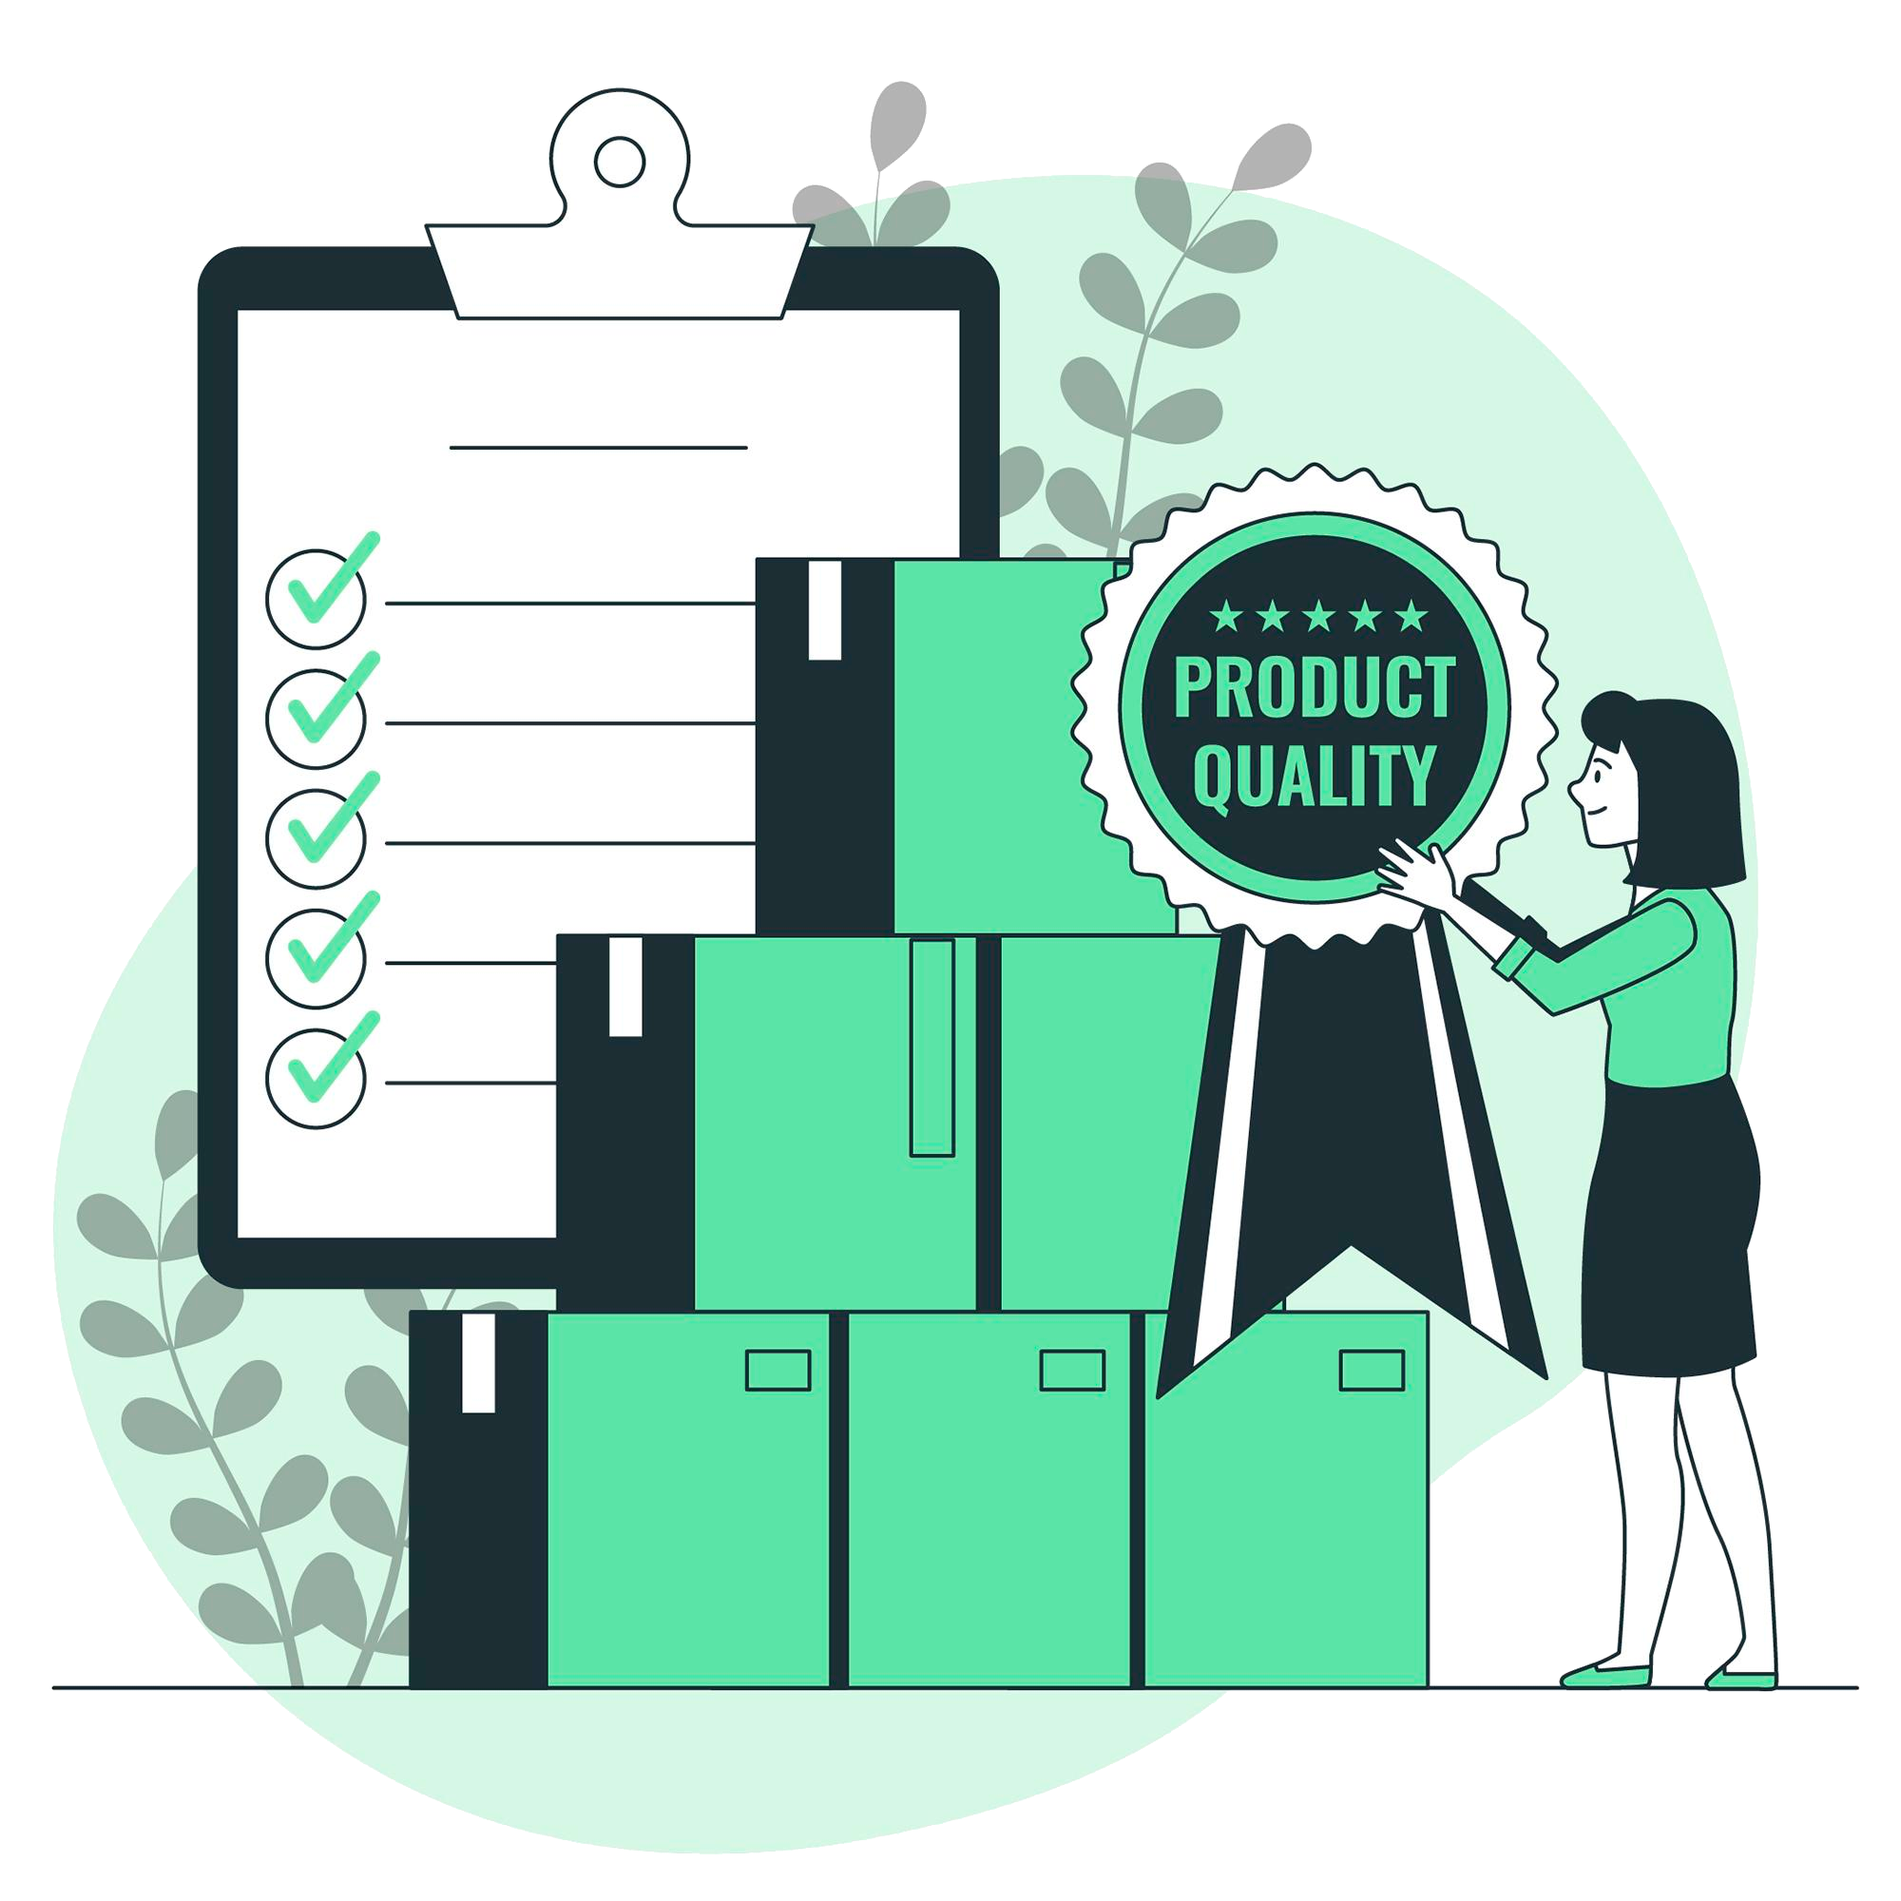
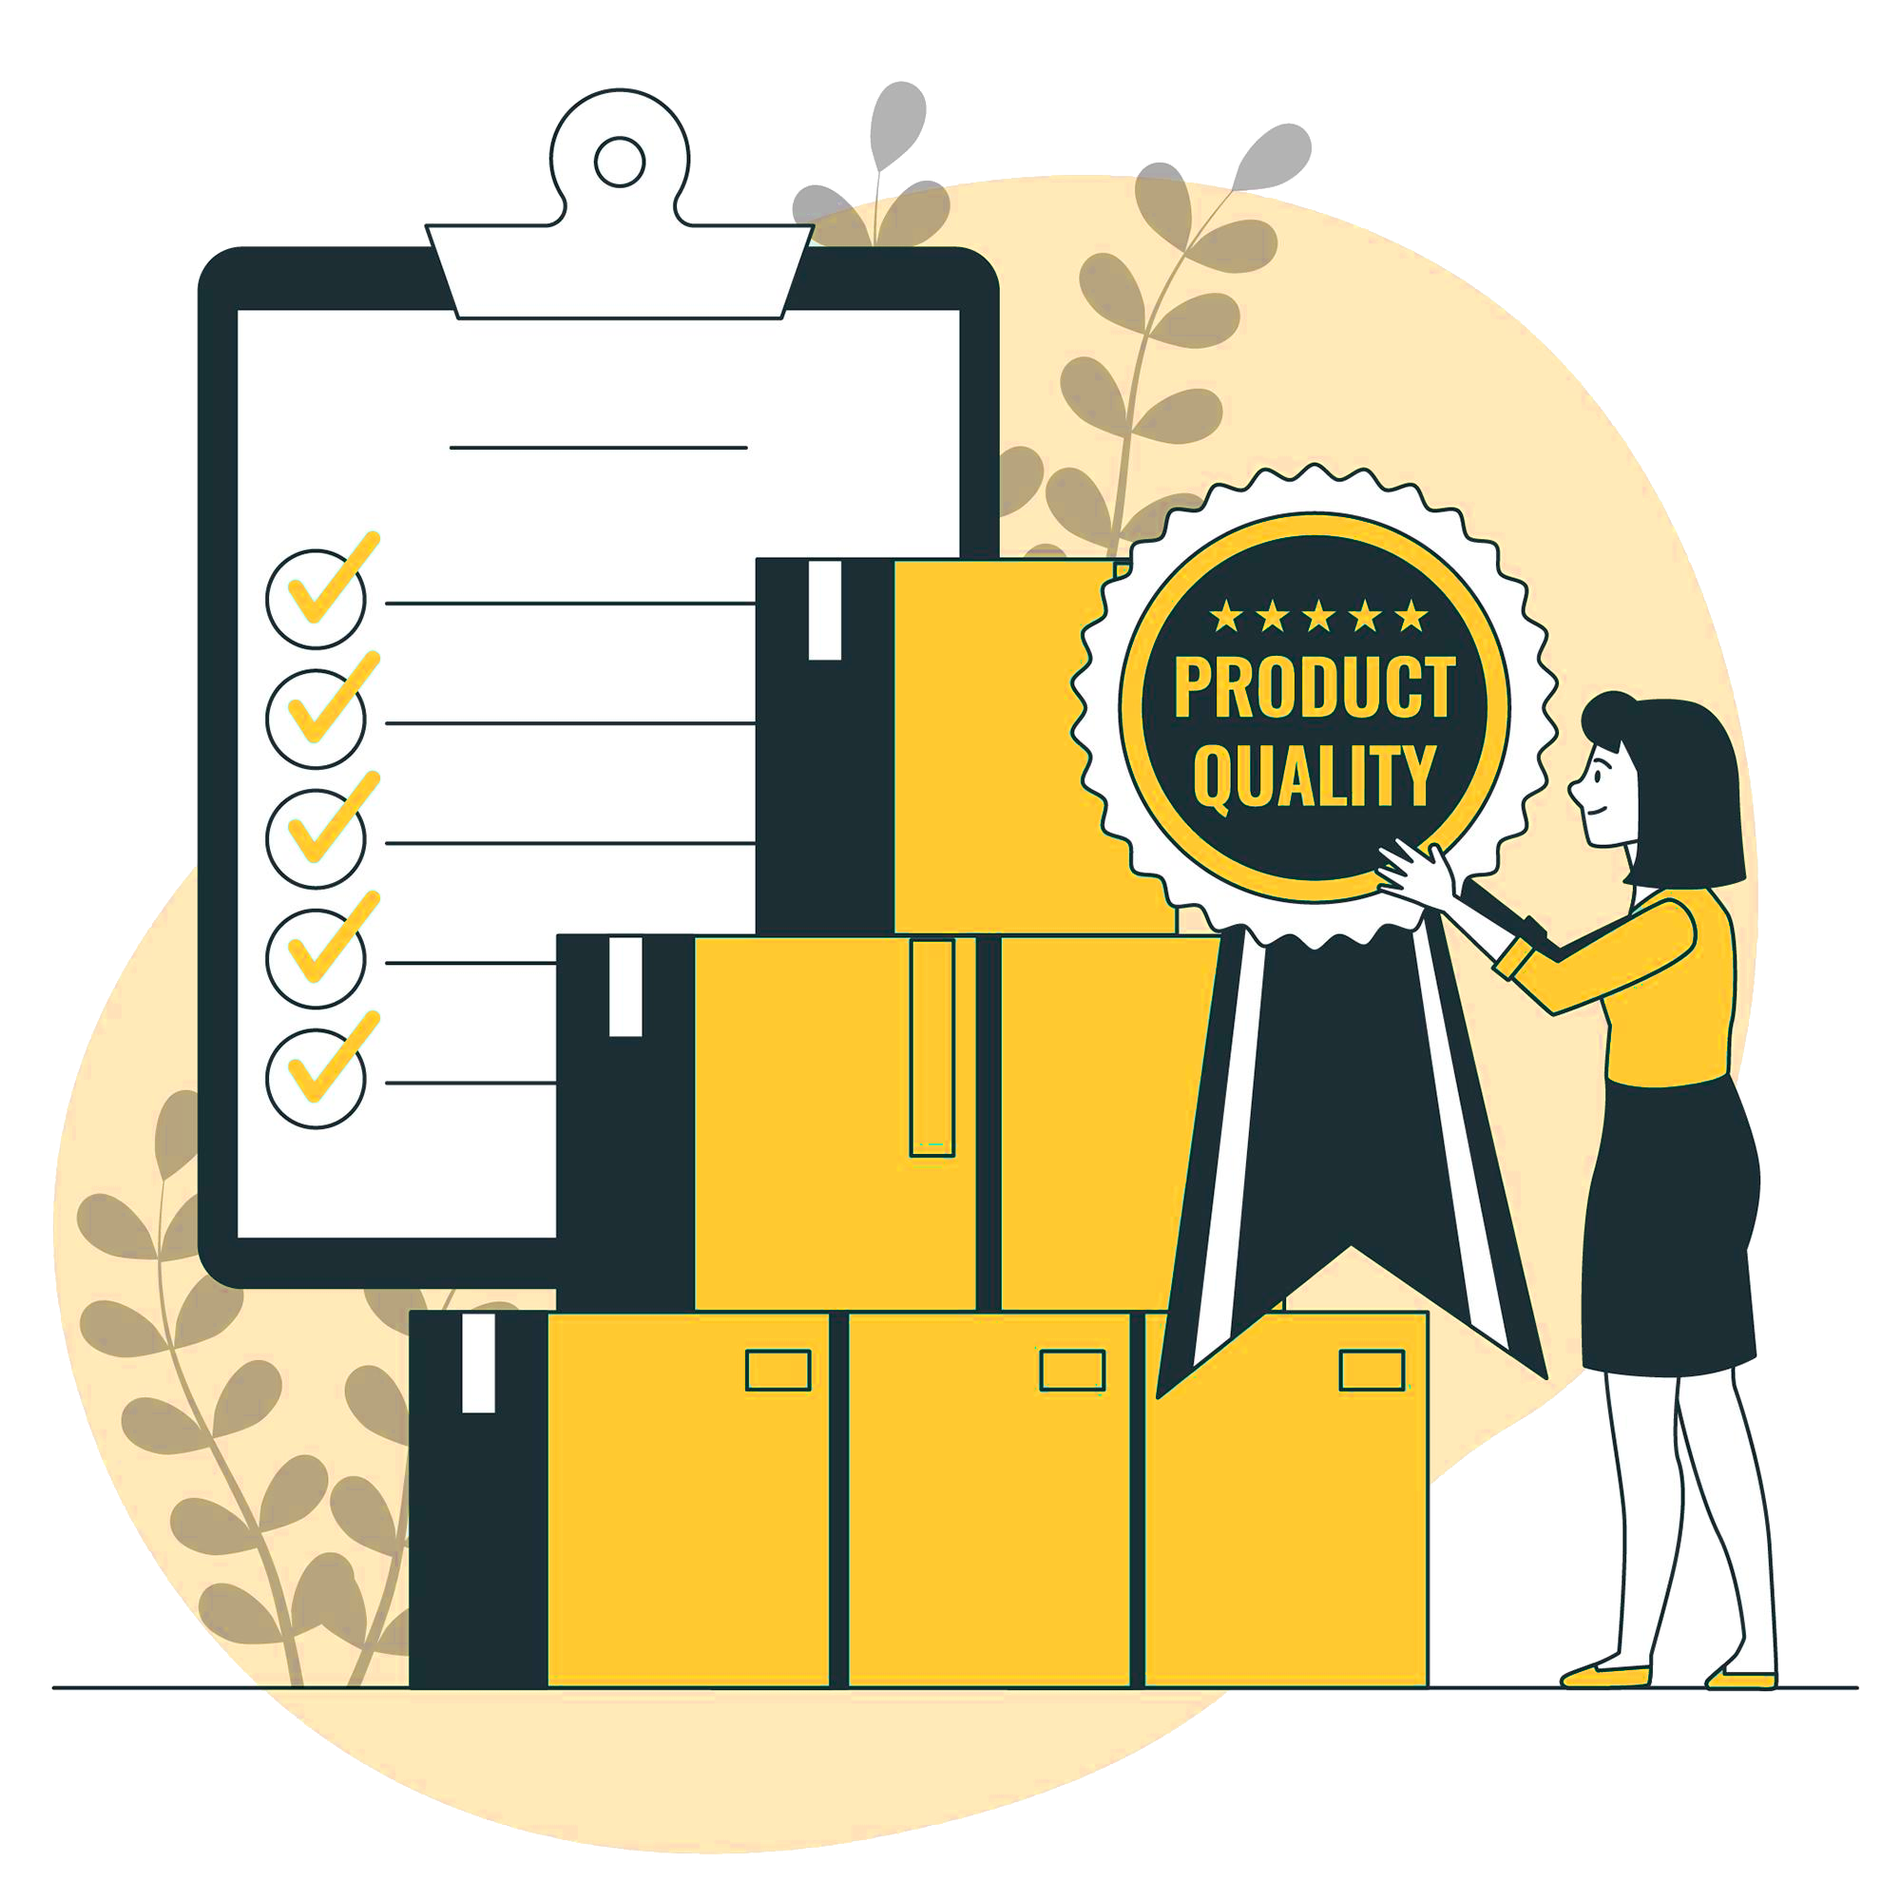
Poprawki wyglądowe + grafiki

diff --git a/src/components/homePage/timeline.vue b/src/components/homePage/timeline.vue
@@ -26,7 +26,7 @@ export default {
                     image: require('@/assets/homePage/timeline/inwentaryzacja.png'),
                     title: "Inwentaryzuj",
                     alt: "Proces inwentaryzacji",
-                    description: "Lorem ipsum dolor sit amet, no nam oblique veritus. Commune scaevola imperdiet nec ut, sedeuismod convenire principes at. Est et nobis iisque percipit, an vim zril disputando voluptatibus, vix an salutandi sententiae."
+                    description: "Inwentaryzacja to kluczowy proces monitorowania stanów magazynowych i kontroli przepływu towarów. Dzięki nowoczesnym technologiom, takim jak kody kreskowe, jest szybka, dokładna i efektywna."
                 },
                 {
                     id: 2,
@@ -34,7 +34,7 @@ export default {
                     image: require('@/assets/homePage/timeline/sprawdzanie.png'),
                     title: "Sprawdzaj",
                     alt: "Sprawdzanie",
-                    description: "Lorem ipsum dolor sit amet, no nam oblique veritus. Commune scaevola imperdiet nec ut, sedeuismod convenire principes at. Est et nobis iisque percipit, an vim zril disputando voluptatibus, vix an salutandi sententiae."
+                    description: "Dzięki kodom kreskowym można szybko i dokładnie sprawdzić przynależność przedmiotu do konkretnej lokalizacji, użytkownika lub działu. System umożliwia natychmiastowy dostęp do szczegółowych informacji, co ułatwia zarządzanie zasobami i eliminuje pomyłki."
                 },
                 {
                     id: 3,
@@ -42,7 +42,7 @@ export default {
                     image: require('@/assets/homePage/timeline/dokumentacja.png'),
                     title: "Dokumentuj",
                     alt: "Tworzenie dokumentacji",
-                    description: "Lorem ipsum dolor sit amet, no nam oblique veritus. Commune scaevola imperdiet nec ut, sedeuismod convenire principes at. Est et nobis iisque percipit, an vim zril disputando voluptatibus, vix an salutandi sententiae."
+                    description: "Dokumentowanie inwentaryzacji polega na szczegółowym zapisie wszystkich zasobów posiadanych przez firmę lub organizację, w celu określenia ich ilości, stanu oraz wartości. Dzięki zastosowaniu oprogramowania, proces ten staje się szybszy, bardziej precyzyjny i mniej podatny na błędy, co umożliwia efektywne zarządzanie zasobami."
                 },
             ]
         };
@@ -57,7 +57,7 @@ export default {
 
 .timeline__container {
     max-width: 80%;
-    background-color: var(--primary-yellow);
+    background-color: var(--primary-blue);
     display: flex;
     flex-direction: row;
     align-items: center;
@@ -67,7 +67,7 @@ export default {
 }
 
 .timeline-text-box {
-    color: var(--primary-blue);
+    color: var(--primary-yellow);
     width: 70%;
     padding: 10px;
 }

diff --git a/src/components/warehousePage/warehouseForm.vue b/src/components/warehousePage/warehouseForm.vue
@@ -13,9 +13,9 @@ const { handleSubmit } = useForm({
             return 'Nazwa przedmiotu nie może być krótsza od 3 znaków i dłuższa od 100 znaków'
         },
         opis() {
-            if (opisPrzedmiotu.value?.length >= 10 && opisPrzedmiotu.value?.length <= 250) return true
+            if (opisPrzedmiotu.value?.length >= 10 && opisPrzedmiotu.value?.length <= 500) return true
 
-            return 'Opis przedmiotu nie może być krótszy od 10 znaków i dłuższy od 250 znaków'
+            return 'Opis przedmiotu nie może być krótszy od 10 znaków i dłuższy od 500 znaków'
         },
         fprzedmiotu() {
             if (firmaPrzedmiotu.value?.length >= 2 && firmaPrzedmiotu.value?.length <= 50) return true
@@ -179,7 +179,7 @@ const submit = handleSubmit(() => {
                     <v-text-field v-model="firmaPrzedmiotu" :counter="50"
                         :error-messages="fprzedmiotu.errorMessage.value" label="Firma przedmiotu"></v-text-field>
 
-                    <v-textarea v-model="opisPrzedmiotu" :counter="250" :error-messages="opis.errorMessage.value"
+                    <v-textarea v-model="opisPrzedmiotu" :counter="500" :error-messages="opis.errorMessage.value"
                         label="Opis przedmiotu"></v-textarea>
 
                     <v-select v-model="zaznaczonyPracownik" :items="employees" label="Wybierz pracownika"
@@ -207,8 +207,8 @@ const submit = handleSubmit(() => {
 }
 
 .v-btn:hover {
-    color: var(--primary-blue);
-    background-color: var(--primary-yellow);
+    color: var(--primary-yellow);
+    background-color: var(--primary-blue);
 }
 
 .v-checkbox .v-label {

diff --git a/src/components/warehousePage.vue b/src/components/warehousePage.vue
@@ -124,10 +124,10 @@ export default {
         </v-dialog>
         <v-responsive>
             <v-btn class="ma-4 text-h6 btn-Add" @click="addEquipment()">
-                <v-icon icon="mdi-plus mr-2" /> Dodaj sprzęt
+                <v-icon icon="mdi-laptop mr-2" /> Dodaj sprzęt
             </v-btn>
             <v-btn class="ma-4 text-h6 btn-Add" @click="addCategory()">
-                <v-icon icon="mdi-plus mr-2" /> Zarządzaj Kategoriami
+                <v-icon icon="mdi-file mr-2" /> Zarządzaj Kategoriami
             </v-btn>
             <v-btn class="ma-4 text-h6 btn-Add" @click="EmployeeModule()">
                 <v-icon icon="mdi-account-group mr-2" /> Zarządzaj Pracownikami
@@ -167,12 +167,13 @@ export default {
 }
 
 .edit:hover {
-    color: var(--primary-blue);
-    background-color: var(--primary-yellow);
+    color: var(--primary-yellow);
+    background-color: var(--primary-blue);
 }
 
 .alert__notify {
-    background-color: var(--primary-yellow);
+    color: var(--primary-yellow);
+    background-color: var(--primary-blue);
 }
 
 .btn-Add {
@@ -187,7 +188,7 @@ export default {
 }
 
 .btn-Add:hover {
-    color: var(--primary-blue);
-    background-color: var(--primary-yellow);
+    color: var(--primary-yellow);
+    background-color: var(--primary-blue);
 }
 </style>

diff --git a/src/components/homePage.vue b/src/components/homePage.vue
@@ -5,9 +5,7 @@
     <v-responsive class="about-text-container text-center text-md-start mr-10">
       <h2 class="text-xs-h5 text-sm-h2 text-h4 pb-10 text-uppercase">Software serwisu</h2>
       <p class="text-h6 pb-10">
-        Lorem ipsum dolor sit amet consectetur, adipisicing elit. Totam nisi amet, nihil et illo expedita animi sapiente
-        quae numquam mollitia voluptatum unde! Molestias assumenda architecto veniam sunt libero rerum impedit! Lorem
-        ipsum dolor sit amet consectetur, adipisicing elit. Totam nisi amet, nihil.
+        Oprogramowanie do Inwentaryzacji i Zarządzania Magazynem to narzędzie do monitorowania stanów, dokumentowania przepływu towarów i kontrolowania procesów serwisowych. Intuicyjny interfejs i przydatne funkcje umożliwiają szybkie sprawdzanie dostępności produktów oraz rejestrowanie operacji. System obsługuje kody kreskowe, co znacząco ułatwia użytkowanie.
       </p>
     </v-responsive>
     <div class="circle"></div>
@@ -41,8 +39,8 @@ section.about {
   position: relative;
   width: 100%;
   min-height: 550px;
-  background-color: var(--primary-yellow);
-  color: var(--primary-blue);
+  background-color: var(--primary-blue);
+  color: var(--primary-yellow);
   margin-top: 100px;
   display: flex;
   flex-wrap: wrap;

diff --git a/src/components/warehousePage/warehouseFormCategory.vue b/src/components/warehousePage/warehouseFormCategory.vue
@@ -26,7 +26,7 @@
     <h2 class="mt-16 pa-5">Obecne kategorie:</h2>
     <p class="text-body-2"><b>Uwaga!</b> Usuwając kategorię która jest wykorzystywana przez istniejące rekordy, automatycznie zostanie przypisana kategoria "inne" !!!</p>
     <v-container class="d-flex justify-center align-center">
-        <v-table class="form-category-table pa-5 text-h6 text-center" height="800px">
+        <v-table class="form-category-table pa-5 text-h6 text-center">
             <thead>
                 <tr>
                     <th class="text-center">
@@ -168,14 +168,13 @@ const confirmRemoveItem = async () => {
 }
 
 .btn-Submit:hover {
-    color: var(--primary-blue);
-    background-color: var(--primary-yellow);
+    color: var(--primary-yellow);
+    background-color: var(--primary-blue);
 }
 
 @media (max-width: 768px) {
-
     .form-category-table {
-        width: 85%;
+        width: 100%;
         height: auto;
     }
 }

diff --git a/src/components/base/navigationBar.vue b/src/components/base/navigationBar.vue
@@ -1,8 +1,7 @@
 <template>
   <v-app-bar class="nav" color="white" elevation="2" app>
     <router-link class="routerLink" to="/">
-      <div class="text-h6 ml-5 no-wrap"><span style="font-weight: 900; color: var(--primary-yellow)"
-          class="text-h5">HOST</span> SERWIS</div>
+      <div class="text-h6 no-wrap d-flex justify-center align-center"><img class="logoImg" src="../../assets/logo.png"></div>
     </router-link>
     <v-spacer></v-spacer>
     <v-container class="d-none d-md-flex justify-end">
@@ -103,7 +102,7 @@ export default {
 
 .active>.v-btn {
   color: var(--primary-blue);
-  background-color: var(--primary-yellowAlpha);
+  background-color: var(--primary-blueAlpha);
 }
 
 .nonactive {
@@ -113,6 +112,13 @@ export default {
 
 .no-wrap {
   white-space: nowrap;
+}
+
+.logoImg {
+  width: 100%;
+  max-width: 140px;
+  height: auto;
+  margin: 15px;
 }
 
 .active-hamburger {

diff --git a/src/components/warehousePage/warehouseemployeesPage.vue b/src/components/warehousePage/warehouseemployeesPage.vue
@@ -30,7 +30,7 @@
     <p class="text-h6 mt-2">⭐ Naciśnij na dane pracownika aby otworzyć powiązane z nim przedmioty 🎉</p>
 
     <v-container class="d-flex justify-center align-center">
-        <v-table class="form-category-table pa-5 text-h6 text-center" height="800px">
+        <v-table class="form-emplyee-table pa-5 text-h6 text-center">
             <thead>
                 <tr>
                     <th class="text-center">
@@ -179,7 +179,20 @@ const addEmployee = async() => {
 }
 
 .btn-Submit:hover {
-    color: var(--primary-blue);
-    background-color: var(--primary-yellow);
+    color: var(--primary-yellow);
+    background-color: var(--primary-blue);
+}
+
+
+.form-emplyee-table {
+    width: 60%;
+    height: auto;
+}
+
+@media (max-width: 768px) {
+    .form-emplyee-table {
+        width: 100%;
+        height: auto;
+    }
 }
 </style>

diff --git a/src/App.vue b/src/App.vue
@@ -4,7 +4,7 @@
     <v-main>
       <router-view />
     </v-main>
-    <scroll :scrollY="scrollY" />
+    <scroll v-if="!isWarehousePage" :scrollY="scrollY" />
     <footerComp />
   </v-app>
 </template>
@@ -19,6 +19,11 @@ export default {
     return {
       scrollY: 0,
     };
+  },
+  computed: {
+    isWarehousePage() {
+      return this.$route.path === "/warehouse";
+    },
   },
   methods: {
     updateScroll() {
@@ -42,8 +47,9 @@ export default {
 <style>
 :root {
   --primary-yellow: #ffcd03;
-  --primary-yellowAlpha: rgba(255, 205, 3,0.7);
-  --primary-blue: #284f75;
+  /* --primary-yellowAlpha: rgba(255, 205, 3,0.7); */
+  --primary-blueAlpha: #284f756f;
+  --primary-blue:  #284f75;
 }
 
 html {

diff --git a/src/components/homePage/statistics.vue b/src/components/homePage/statistics.vue
@@ -97,7 +97,7 @@ export default {
 .count {
     font-size: 32px;
     font-weight: bold;
-    color: var(--primary-yellow);
+    color: var(--primary-blue);
     margin-bottom: 10px;
 }
 
@@ -112,7 +112,7 @@ export default {
     display: block;
     top: 0;
     left: -150px;
-    background-color: var(--primary-yellow);
+    background-color: var(--primary-blue);
     width: 100%;
     max-width: 300px;
     transform: skew(30deg);
@@ -124,7 +124,7 @@ export default {
     display: block;
     top: 0;
     right: -150px;
-    background-color: var(--primary-yellow);
+    background-color: var(--primary-blue);
     width: 100%;
     max-width: 300px;
     transform: skew(-30deg);

diff --git a/src/components/base/ScrollToTop.vue b/src/components/base/ScrollToTop.vue
@@ -26,7 +26,7 @@ export default {
     right: 20px;
     width: 55px;
     height: 55px;
-    background-color: var(--primary-yellow) !important;
+    background-color: var(--primary-blue) !important;
     color: white !important;
     display: flex;
     align-items: center;
@@ -38,7 +38,7 @@ export default {
 }
 
 .btn-to-top:hover {
-    background-color: var(--primary-yellowAlpha) !important;
+    background-color: var(--primary-blueAlpha) !important;
     transform: scale(1.1);
 }
 </style>

diff --git a/src/components/warehousePage/warehouseQRModule.vue b/src/components/warehousePage/warehouseQRModule.vue
@@ -77,7 +77,7 @@ onMounted(checkBarCode);
 }
 
 .v-btn:hover {
-  color: var(--primary-blue);
-  background-color: var(--primary-yellow);
+  color: var(--primary-yellow);
+  background-color: var(--primary-blue);
 }
 </style>
